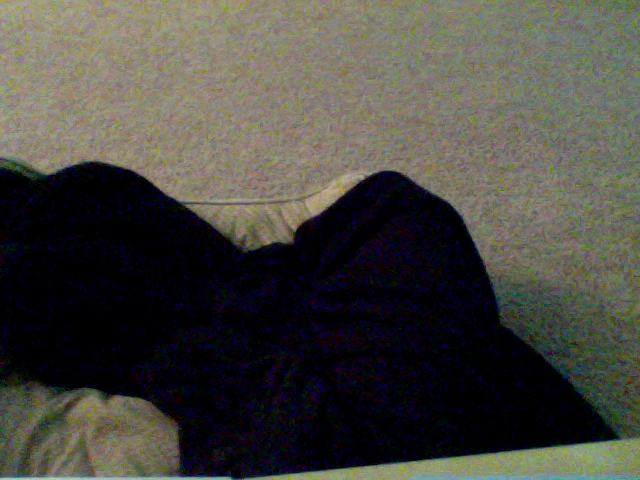
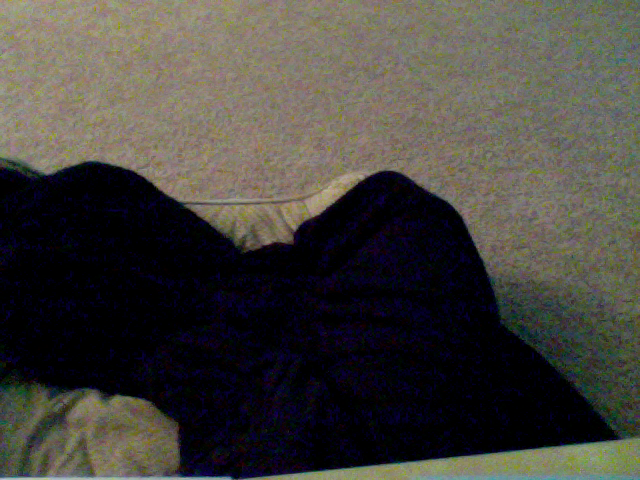
update at Month05Day07Time18:49

diff --git a/index.html b/index.html
@@ -40,7 +40,7 @@
       <div class="row">
         <div class="col-md-4">
 	<p>This picture was updated at Month05Day07Time18:49</p>
-		<img src="7_pic.png" />
+		<img src="5_pic.png" />
         </div>
       </div>
 
